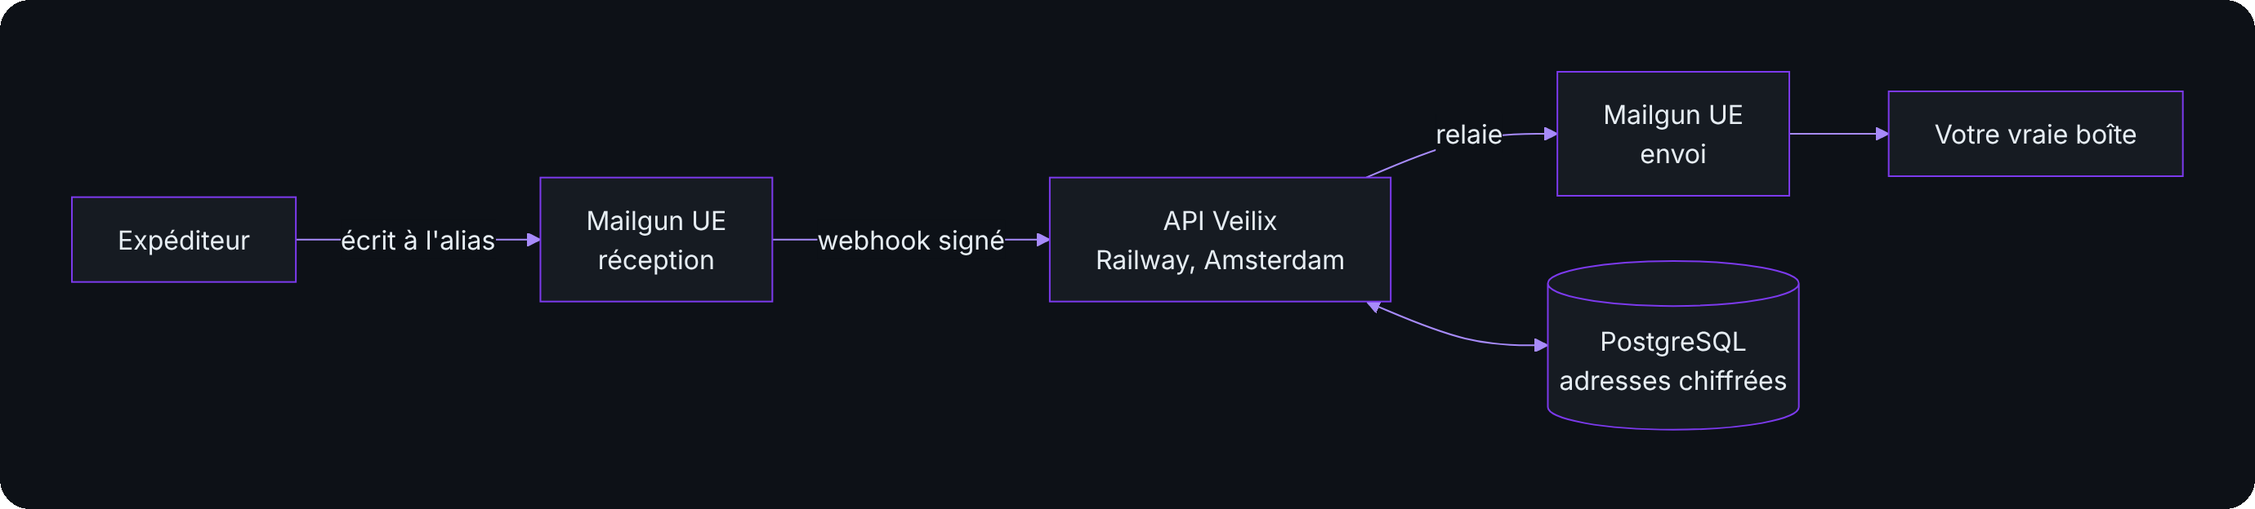
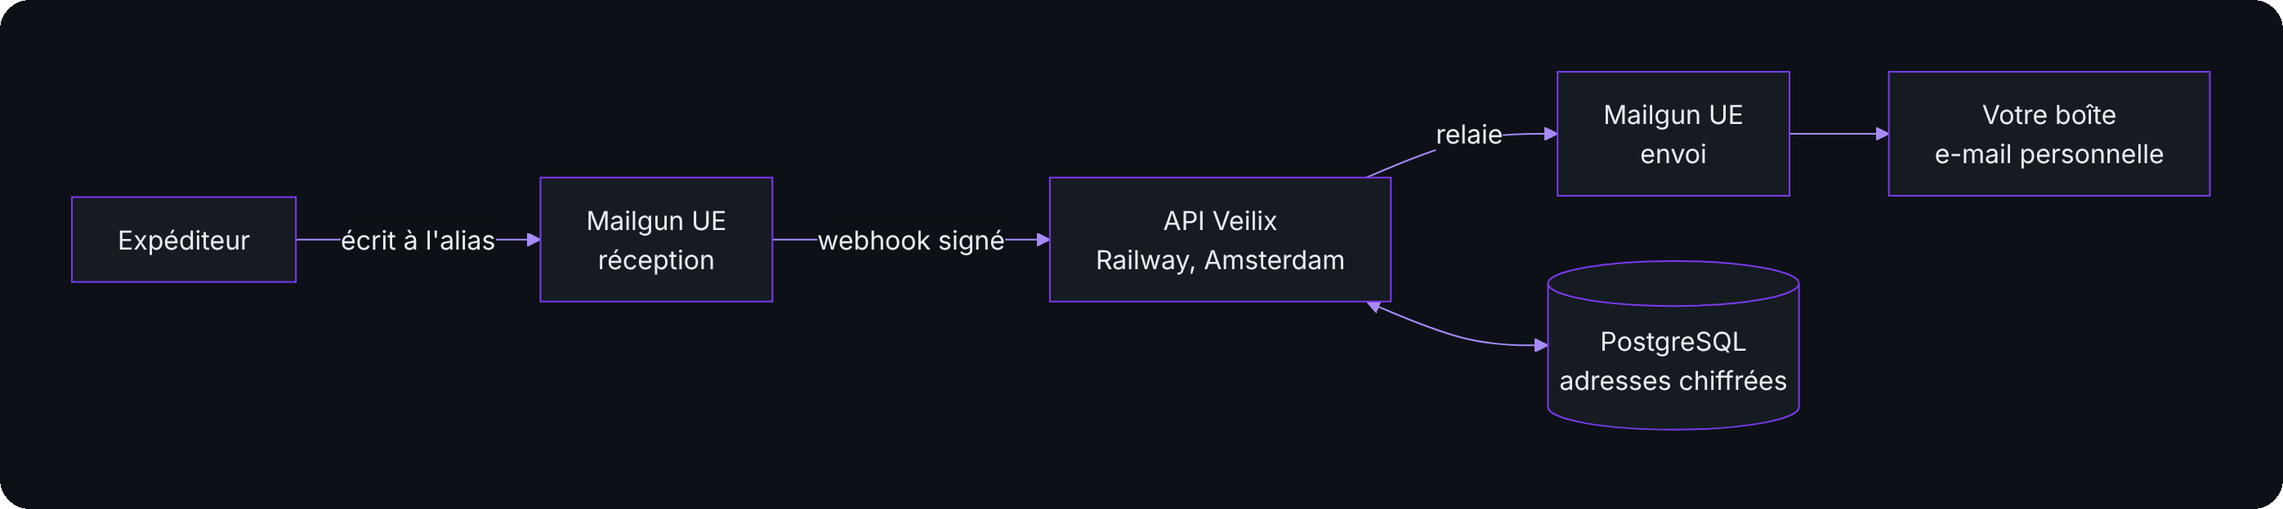
« Adresse e-mail personnelle » partout sur le site

diff --git a/veilix-frontend/lib/translations-pages.ts b/veilix-frontend/lib/translations-pages.ts
@@ -78,7 +78,7 @@ export const PT = {
         { title: "1. Responsable du traitement", content: "Le responsable du traitement est l'éditeur de Veilix, identifié dans les mentions légales. Pour toute question sur vos données : legal@veilix.fr." },
         { title: "2. Un service sans compte", content: "Veilix ne vous demande ni nom ni mot de passe. Votre clé et sa phrase de récupération de 12 mots sont générées dans votre navigateur et ne nous sont jamais transmises. Nos serveurs reçoivent seulement un identifiant dérivé de votre clé, qu'ils enregistrent sous forme d'empreinte SHA-256." },
         { title: "3. Données traitées et finalités", content: "Pour faire fonctionner le service : l'empreinte de votre clé, votre plan, vos crédits, vos alias et leurs étiquettes, la date de création de la clé et celle de sa dernière utilisation. Pour transférer vos e-mails : vos adresses de destination, chiffrées en AES-256-GCM avec une clé conservée hors de la base, accompagnées d'une empreinte HMAC-SHA256 qui permet de les retrouver sans les lire. Pour répondre depuis un alias : l'adresse de chaque correspondant à qui vous répondez, chiffrée de la même façon. Pour la bêta : votre adresse de contact, chiffrée, et vos réponses aux formulaires de retour, chiffrées. Pour protéger le service : des empreintes de vos adresses IP pour limiter les abus, des empreintes techniques des messages reçus pour éviter les doublons, et l'état de délivrabilité de chaque destination (rebonds et plaintes), enregistré sous forme d'empreinte." },
-        { title: "4. Le contenu de vos e-mails", content: "Les e-mails reçus sur vos alias transitent par notre prestataire d'envoi et par nos serveurs le temps de leur transfert vers votre adresse de destination. Veilix ne les lit pas, ne les analyse pas à des fins commerciales et ne conserve pas leur contenu. Lorsque vous répondez depuis un alias, votre adresse réelle est retirée du message avant son envoi." },
+        { title: "4. Le contenu de vos e-mails", content: "Les e-mails reçus sur vos alias transitent par notre prestataire d'envoi et par nos serveurs le temps de leur transfert vers votre adresse de destination. Veilix ne les lit pas, ne les analyse pas à des fins commerciales et ne conserve pas leur contenu. Lorsque vous répondez depuis un alias, votre adresse e-mail personnelle est retirée du message avant son envoi." },
         { title: "5. Bases légales", content: "L'exécution du service que vous demandez pour la gestion de vos alias, de vos transferts et de vos réponses. Votre consentement pour la participation à la bêta et l'envoi des e-mails qui l'accompagnent. Notre intérêt légitime pour la sécurité du service et la lutte contre les abus. Nos obligations légales pour la facturation, lorsque le paiement en ligne sera ouvert." },
         { title: "6. Prestataires et hébergement", content: "Railway héberge l'API et la base de données dans l'Union européenne, à Amsterdam. Vercel héberge le site, servi depuis Paris. Mailgun achemine les e-mails depuis sa région européenne. Stripe traitera les paiements à partir de l'ouverture du paiement en ligne : Veilix ne voit pas et ne conserve pas votre numéro de carte, seulement l'identifiant client Stripe et l'état de votre abonnement. Ces prestataires sont des sociétés américaines : un transfert de données hors de l'Union européenne reste possible, encadré par les garanties prévues par le RGPD, notamment les clauses contractuelles types de la Commission européenne. Railway et Vercel conservent dans leurs journaux techniques l'adresse IP, le navigateur et la page demandée de chaque visite, et Mailgun conserve des journaux d'acheminement (expéditeur, destinataire, date), pour des durées fixées par ces prestataires. Les journaux d'accès de notre propre serveur sont désactivés." },
         { title: "7. Durées de conservation", content: "Les données de votre clé, de vos alias et de vos destinations sont conservées tant que votre clé existe. Vous pouvez tout supprimer à tout moment depuis le tableau de bord, avec le bouton « Supprimer mon compte et mes données » : la suppression est immédiate et définitive. Les adresses de vos correspondants sont supprimées avec l'alias concerné. Les inscriptions à la bêta sont effacées à la fin de la phase de bêta concernée. Les empreintes d'adresses IP sont effacées sous 48 heures et les empreintes techniques des messages sous 3 jours." },
@@ -138,7 +138,7 @@ export const PT = {
         {
           category: 'Général',
           items: [
-            { q: "Qu'est-ce que Veilix ?", a: "Veilix est un service de protection d'identité numérique par alias email. Il vous permet de créer des adresses email jetables qui redirigent les messages vers votre vraie boîte." },
+            { q: "Qu'est-ce que Veilix ?", a: "Veilix est un service de protection d'identité numérique par alias email. Il vous permet de créer des adresses email jetables qui redirigent les messages vers votre boîte e-mail personnelle." },
             { q: 'Veilix est-il gratuit ?', a: "Veilix propose un essai de 14 jours, avec un moyen de paiement requis. Ensuite, le plan Pro (100 alias) coûte 4,99€/mois ou 44,90€/an, et le Pack de lancement (alias illimités, offre limitée à 100 exemplaires) 69€/an." },
             { q: "Comment fonctionne l'essai de 14 jours ?", a: "Vous enregistrez un moyen de paiement, rien n'est débité pendant 14 jours. À la fin de l'essai, l'abonnement démarre automatiquement, sauf si vous l'avez annulé avant." },
             { q: 'Veilix est-il open source ?', a: 'Oui, entièrement : le site et le backend sont open source sous licence AGPL-3.0 et publiquement auditables sur github.com/VeilixHQ/Veilix.' },
@@ -157,7 +157,7 @@ export const PT = {
           items: [
             { q: "Combien d'alias puis-je créer ?", a: '100 alias avec le plan Pro, illimités avec le Pack de lancement.' },
             { q: 'Mes emails sont-ils lus ou stockés ?', a: 'Non, jamais. Nous redirigeons le flux en temps réel.' },
-            { q: 'Puis-je répondre depuis un alias ?', a: 'Oui, la réponse est envoyée depuis l\'alias, sans révéler votre vraie adresse.' },
+            { q: 'Puis-je répondre depuis un alias ?', a: 'Oui, la réponse est envoyée depuis l\'alias, sans révéler votre adresse e-mail personnelle.' },
             { q: 'Que se passe-t-il si je désactive un alias ?', a: 'Les emails sont ignorés. Réactivable à tout moment.' },
             { q: 'Puis-je choisir mon alias ?', a: "Sur alias.veilix.fr, chaque adresse est générée aléatoirement pour garantir son unicité et votre anonymat. Choisir le nom de vos adresses sera possible avec les domaines personnalisés du Pack de lancement, bientôt disponibles." },
           ],
@@ -307,7 +307,7 @@ export const PT = {
         { title: "1. Data controller", content: "The data controller is the publisher of Veilix, identified in the legal notice. For any question about your data: legal@veilix.fr." },
         { title: "2. A service without accounts", content: "Veilix never asks for your name or a password. Your key and its 12-word recovery phrase are generated in your browser and are never sent to us. Our servers only receive an identifier derived from your key, which they store as a SHA-256 hash." },
         { title: "3. Data processed and purposes", content: "To run the service: the hash of your key, your plan, your credits, your aliases and their labels, the date your key was created and last used. To forward your emails: your destination addresses, encrypted with AES-256-GCM using a key kept outside the database, with an HMAC-SHA256 fingerprint that lets us find them without reading them. To reply from an alias: the address of each correspondent you reply to, encrypted the same way. For the beta: your contact address, encrypted, and your answers to feedback forms, encrypted. To protect the service: hashes of your IP addresses to limit abuse, technical fingerprints of incoming messages to avoid duplicates, and the deliverability state of each destination (bounces and complaints), stored as a fingerprint." },
-        { title: "4. The content of your emails", content: "Emails received on your aliases pass through our sending provider and our servers only while they are forwarded to your destination address. Veilix does not read them, does not analyze them for commercial purposes and does not keep their content. When you reply from an alias, your real address is removed from the message before it is sent." },
+        { title: "4. The content of your emails", content: "Emails received on your aliases pass through our sending provider and our servers only while they are forwarded to your destination address. Veilix does not read them, does not analyze them for commercial purposes and does not keep their content. When you reply from an alias, your personal email address is removed from the message before it is sent." },
         { title: "5. Legal bases", content: "Performance of the service you request, to manage your aliases, forwarding and replies. Your consent, for taking part in the beta and receiving the related emails. Our legitimate interest in securing the service and fighting abuse. Our legal obligations for invoicing, once online payment opens." },
         { title: "6. Providers and hosting", content: "Railway hosts the API and database in the European Union, in Amsterdam. Vercel hosts the website, served from Paris. Mailgun routes emails from its European region. Stripe will process payments once online payment opens: Veilix never sees or stores your card number, only the Stripe customer identifier and your subscription status. These providers are US companies: data may be transferred outside the European Union, under the safeguards provided by the GDPR, including the European Commission's standard contractual clauses. Railway and Vercel keep the IP address, browser and requested page of each visit in their technical logs, and Mailgun keeps routing logs (sender, recipient, date), for periods set by these providers. Our own server access logs are disabled." },
         { title: "7. Retention", content: "Data about your key, aliases and destinations is kept as long as your key exists. You can delete everything at any time from the dashboard with the \"Delete my account and data\" button: deletion is immediate and permanent. Your correspondents' addresses are deleted with the related alias. Beta signups are erased when the beta phase ends. IP address hashes are erased within 48 hours and message fingerprints within 3 days." },
@@ -367,7 +367,7 @@ export const PT = {
         {
           category: 'General',
           items: [
-            { q: 'What is Veilix?', a: 'Veilix is a digital identity protection service using email aliases. It lets you create disposable email addresses that forward to your real inbox.' },
+            { q: 'What is Veilix?', a: 'Veilix is a digital identity protection service using email aliases. It lets you create disposable email addresses that forward to your personal inbox.' },
             { q: 'Is Veilix free?', a: 'Veilix offers a 14-day trial, payment method required. After that, the Pro plan (100 aliases) costs €4.99/month or €44.90/year, and the Launch pack (unlimited aliases, limited to 100 copies) €69/year.' },
             { q: 'How does the 14-day trial work?', a: 'You add a payment method, nothing is charged for 14 days. When the trial ends, your subscription starts automatically unless you cancelled before.' },
             { q: 'Is Veilix open source?', a: 'Yes, entirely: the website and the backend are open source under the AGPL-3.0 license and publicly auditable at github.com/VeilixHQ/Veilix.' },
@@ -386,7 +386,7 @@ export const PT = {
           items: [
             { q: 'How many aliases can I create?', a: '100 with the Pro plan, unlimited with the Launch pack.' },
             { q: 'Are my emails read or stored?', a: 'No, never. We redirect the flow in real time.' },
-            { q: 'Can I reply from an alias?', a: 'Yes, your reply is sent from the alias, without revealing your real address.' },
+            { q: 'Can I reply from an alias?', a: 'Yes, your reply is sent from the alias, without revealing your personal email address.' },
             { q: 'What happens if I disable an alias?', a: 'Emails are ignored. Reactivatable anytime.' },
             { q: 'Can I choose my alias?', a: 'On alias.veilix.fr, each address is randomly generated to guarantee uniqueness and anonymity. Choosing your own address names will be possible with custom domains in the Launch pack, coming soon.' },
           ],

diff --git a/veilix-frontend/lib/translations.ts b/veilix-frontend/lib/translations.ts
@@ -145,7 +145,7 @@ export const T = {
         declineOfferBtn: 'Non merci, je souhaite quand même résilier',
         unusedTitle: 'Votre protection travaille pourtant en silence',
         unusedDesc1: 'Vous avez actuellement ',
-        unusedDesc2: " sur votre tableau de bord. Même lorsque vous ne créez pas de nouveaux alias, Veilix filtre vos e-mails en arrière-plan et empêche votre vraie adresse d'être revendue.",
+        unusedDesc2: " sur votre tableau de bord. Même lorsque vous ne créez pas de nouveaux alias, Veilix filtre vos e-mails en arrière-plan et empêche votre adresse e-mail personnelle d'être revendue.",
         keepProtectionBtn: 'Conserver ma protection active',
         continueCancelBtn: 'Continuer vers la résiliation',
         feedbackTitle: 'Construisons Veilix ensemble',
@@ -162,9 +162,9 @@ export const T = {
       },
     },
     h1a: 'Des alias email',
-    h1b: 'pour protéger votre vraie adresse.',
+    h1b: 'pour protéger votre adresse e-mail personnelle.',
     sub1: 'Créez vos alias instantanément.',
-    sub2: 'Votre vraie adresse reste privée pour toujours.',
+    sub2: 'Votre adresse e-mail personnelle reste privée pour toujours.',
     cta1: 'Essayer gratuitement 14 jours',
     cta2: 'Découvrir le fonctionnement',
     demoLabel: 'Alias actifs',
@@ -222,7 +222,7 @@ export const T = {
       { title: 'Blocage instantané', desc: 'Un spammeur vous harcèle ?\nCoupez les accès en un clic.', tag: '1-Click' },
       { title: 'Réponse anonyme', desc: 'Répondez directement via vos alias\ntout en gardant votre adresse privée.', tag: '100% Anonyme' },
       { title: 'Pièces jointes incluses', desc: 'Recevez et envoyez vos PDF,\ndocuments et images en toute sécurité.', tag: 'PDF, Docs, Img' },
-      { title: 'Adresse 100% privée', desc: 'Votre vraie adresse reste sous clé.\nProtection totale en arrière-plan.', tag: 'Privacy First' },
+      { title: 'Adresse 100% privée', desc: 'Votre adresse e-mail personnelle reste sous clé.\nProtection totale en arrière-plan.', tag: 'Privacy First' },
       { title: 'Labels & Organisation', desc: 'Shopping, gaming ou travail :\nchaque alias reste à sa place.', tag: 'Sur-mesure' },
     ],
     whyKicker: 'Pourquoi Choisir Veilix ?',
@@ -230,7 +230,7 @@ export const T = {
     whySub: 'Vous connaissez la boîte saturée de gauche. Veilix vous offre la boîte épurée de droite.',
     gmailBefore: 'Sans Veilix',
     gmailAfter: 'Avec Veilix',
-    gmailBeforeDesc: 'Votre vraie adresse exposée partout',
+    gmailBeforeDesc: 'Votre adresse e-mail personnelle exposée partout',
     gmailAfterDesc: 'Seuls les emails importants arrivent',
     gmailSpam: 'emails non lus',
     gmailNow: 'maintenant',
@@ -249,7 +249,7 @@ export const T = {
     faqKicker: 'FAQ',
     faqTitle: 'Questions fréquentes.',
     faqs: [
-      { q: "Qu'est-ce qu'un alias email ?", a: "Un alias email est une adresse intermédiaire qui protège votre véritable adresse. Les messages envoyés à votre alias sont transférés vers votre boîte de réception sans que votre adresse réelle ne soit dévoilée." },
+      { q: "Qu'est-ce qu'un alias email ?", a: "Un alias email est une adresse intermédiaire qui protège votre adresse e-mail personnelle. Les messages envoyés à votre alias sont transférés vers votre boîte de réception sans que votre adresse e-mail personnelle ne soit dévoilée." },
       { q: 'Veilix lit-il ou stocke-t-il mes emails ?', a: "Non. Veilix ne lit pas vos emails et ne stocke pas leur contenu. Le service agit uniquement comme un relais chiffré en temps réel." },
       { q: 'Comment fonctionne Veilix sans compte ?', a: "Veilix ne nécessite aucune inscription classique. Aucun nom ni mot de passe n'est demandé. Votre accès repose sur une clé cryptographique générée localement dans votre navigateur." },
       { q: 'Quelles données Veilix possède-t-il sur moi ?', a: "Aucune donnée personnelle permettant de vous identifier. Pas de profil utilisateur, pas de suivi publicitaire ni de revente de données." },
@@ -450,7 +450,7 @@ export const T = {
         declineOfferBtn: 'No thanks, I still want to cancel',
         unusedTitle: 'Your protection still works silently',
         unusedDesc1: 'You currently have ',
-        unusedDesc2: ' on your dashboard. Even when you do not create new aliases, Veilix filters your emails in the background and prevents your real address from being resold.',
+        unusedDesc2: ' on your dashboard. Even when you do not create new aliases, Veilix filters your emails in the background and prevents your personal email address from being resold.',
         keepProtectionBtn: 'Keep my protection active',
         continueCancelBtn: 'Continue to cancellation',
         feedbackTitle: "Let's build Veilix together",
@@ -467,9 +467,9 @@ export const T = {
       },
     },
     h1a: 'Email aliases',
-    h1b: 'to protect your real address.',
+    h1b: 'to protect your personal email address.',
     sub1: 'Create aliases instantly.',
-    sub2: 'Your real address stays private for good.',
+    sub2: 'Your personal email address stays private for good.',
     cta1: 'Start 14-day free trial',
     cta2: 'How it works',
     demoLabel: 'Active aliases',
@@ -493,7 +493,7 @@ export const T = {
     howTitle: 'Simple by design.',
     howSteps: [
       { n: '1', title: 'Generate a key', desc: 'No email or password required.\nA unique cryptographic key generated locally.' },
-      { n: '2', title: 'Create aliases', desc: 'Generate your aliases in one click.\nKeep your real address private and send attachments (PDFs, docs...).' },
+      { n: '2', title: 'Create aliases', desc: 'Generate your aliases in one click.\nKeep your personal email address private and send attachments (PDFs, docs...).' },
       { n: '3', title: 'Block in one click', desc: 'Reply to incoming emails directly from your alias while remaining 100% anonymous.\nSpam? Block with one click.' },
     ],
     howVisualTitle: 'Email aliases',
@@ -513,9 +513,9 @@ export const T = {
     features: [
       { title: 'Aliases in one click', desc: 'Instant generation.\nReady to use with zero configuration.', tag: 'Instant' },
       { title: 'Instant blocking', desc: 'Spammer harassing you?\nCut access in one click.', tag: '1-Click' },
-      { title: 'Anonymous reply', desc: 'Reply directly through your aliases\nwhile keeping your real address private.', tag: '100% Anonymous' },
+      { title: 'Anonymous reply', desc: 'Reply directly through your aliases\nwhile keeping your personal email address private.', tag: '100% Anonymous' },
       { title: 'Attachments supported', desc: 'Receive and send your PDFs,\ndocuments, and images securely.', tag: 'PDF, Docs, Img' },
-      { title: '100% private address', desc: 'Your real email stays locked.\nTotal background protection.', tag: 'Privacy First' },
+      { title: '100% private address', desc: 'Your personal email address stays locked.\nTotal background protection.', tag: 'Privacy First' },
       { title: 'Labels & Organization', desc: 'Shopping, gaming, or work:\nevery alias in its place.', tag: 'Custom' },
     ],
     whyKicker: 'Why Choose Veilix?',
@@ -523,7 +523,7 @@ export const T = {
     whySub: 'You know the crowded inbox on the left. Veilix gives you the clean one on the right.',
     gmailBefore: 'Without Veilix',
     gmailAfter: 'With Veilix',
-    gmailBeforeDesc: 'Your real address exposed everywhere',
+    gmailBeforeDesc: 'Your personal email address exposed everywhere',
     gmailAfterDesc: 'Only important emails get through',
     gmailSpam: 'unread emails',
     gmailNow: 'now',
@@ -542,7 +542,7 @@ export const T = {
     faqKicker: 'FAQ',
     faqTitle: 'Frequently asked questions.',
     faqs: [
-      { q: 'What is an email alias?', a: 'An alias is an intermediate email address that forwards emails to your real inbox. Your real address is never shared.' },
+      { q: 'What is an email alias?', a: 'An alias is an intermediate email address that forwards emails to your personal inbox. Your personal email address is never shared.' },
       { q: 'Are my emails stored by Veilix?', a: 'No. Veilix does not read or store your emails. We simply redirect the flow in real time.' },
       { q: 'How does the no-account system work?', a: 'A cryptographic key is generated locally in your browser. It completely replaces email and password.' },
       { q: 'What data does Veilix hold about me?', a: 'No personal data allowing you to be identified. No user profile, no advertising tracking, and no data resale.' },

diff --git a/veilix-frontend/app/conditions-utilisation/page.tsx b/veilix-frontend/app/conditions-utilisation/page.tsx
@@ -35,7 +35,7 @@ const CONTENT: Record<Lang, {
     sections: {
       cgu: [
         { title: '1. Objet', content: "Les présentes conditions encadrent l'utilisation de Veilix, service d'alias e-mail édité par la personne identifiée dans les mentions légales. Utiliser Veilix vaut acceptation de ces conditions." },
-        { title: '2. Le service', content: "Veilix permet de créer des adresses e-mail de substitution (alias) qui transfèrent les messages reçus vers une adresse de destination que vous avez confirmée, et de répondre depuis ces alias sans révéler votre adresse réelle. Le service fonctionne sans compte : l'accès repose sur une clé générée dans votre navigateur." },
+        { title: '2. Le service', content: "Veilix permet de créer des adresses e-mail de substitution (alias) qui transfèrent les messages reçus vers une adresse de destination que vous avez confirmée, et de répondre depuis ces alias sans révéler votre adresse e-mail personnelle. Le service fonctionne sans compte : l'accès repose sur une clé générée dans votre navigateur." },
         { title: '3. Votre clé', content: "Votre phrase de récupération de 12 mots est le seul moyen de retrouver votre clé. Veilix ne la connaît pas et ne peut pas la retrouver à votre place : si vous la perdez, l'accès à vos alias est définitivement perdu. Gardez-la en lieu sûr et ne la communiquez à personne." },
         { title: '4. Utilisation acceptable', content: "Il est interdit d'utiliser Veilix pour envoyer du spam, de l'hameçonnage ou des logiciels malveillants, pour harceler, usurper une identité, contourner une interdiction ou diffuser un contenu illégal. Il est également interdit de tenter de perturber le service, de contourner ses limites ou d'accéder aux données d'autrui." },
         { title: '5. Limites et suspension', content: "Des limites d'envoi et de création d'alias protègent le service et sa réputation auprès des fournisseurs de messagerie. En cas de manquement aux présentes conditions, de rebonds ou de plaintes répétés, Veilix peut désactiver un alias ou suspendre une clé, si possible après avertissement." },
@@ -94,7 +94,7 @@ const CONTENT: Record<Lang, {
     sections: {
       cgu: [
         { title: '1. Purpose', content: 'These terms govern the use of Veilix, an email alias service published by the person identified in the legal notice. Using Veilix means you accept these terms.' },
-        { title: '2. The service', content: 'Veilix lets you create substitute email addresses (aliases) that forward incoming messages to a destination address you have confirmed, and reply from these aliases without revealing your real address. The service works without an account: access relies on a key generated in your browser.' },
+        { title: '2. The service', content: 'Veilix lets you create substitute email addresses (aliases) that forward incoming messages to a destination address you have confirmed, and reply from these aliases without revealing your personal email address. The service works without an account: access relies on a key generated in your browser.' },
         { title: '3. Your key', content: 'Your 12-word recovery phrase is the only way to recover your key. Veilix does not know it and cannot recover it for you: if you lose it, access to your aliases is lost for good. Keep it safe and never share it.' },
         { title: '4. Acceptable use', content: 'You may not use Veilix to send spam, phishing or malware, to harass, impersonate, evade a ban or spread illegal content. You may not try to disrupt the service, bypass its limits or access other people\'s data.' },
         { title: '5. Limits and suspension', content: 'Sending and alias creation limits protect the service and its reputation with email providers. If these terms are breached, or after repeated bounces or complaints, Veilix may disable an alias or suspend a key, with prior warning where possible.' },

diff --git a/veilix-frontend/components/landing/SocialProof.tsx b/veilix-frontend/components/landing/SocialProof.tsx
@@ -15,7 +15,7 @@ const content = {
       "Vous vous inscrivez quelque part. Un site, une app, une newsletter.<br />On vous demande votre email, alors vous le donnez, c'est le prix à payer pour accéder à ce que vous voulez.",
       "Sauf que ce prix, on ne vous le montre jamais vraiment. Votre adresse finit revendue à des annonceurs, ajoutée à des listes de diffusion, exposée lors de la prochaine fuite de données.<br />Votre boîte mail devient un endroit que vous n'avez plus envie d'ouvrir.",
       "On a construit Veilix parce qu'on trouvait ça absurde.<br />Pourquoi devrait-on choisir entre utiliser un service et protéger son identité ?",
-      "Avec Veilix, vous donnez un alias à la place de votre vraie adresse. Aucun compte à créer, aucun mot de passe à retenir. Juste une clé générée dans votre navigateur, que vous seul possédez.",
+      "Avec Veilix, vous donnez un alias à la place de votre adresse e-mail personnelle. Aucun compte à créer, aucun mot de passe à retenir. Juste une clé générée dans votre navigateur, que vous seul possédez.",
     ],
     pillars: ['No Account', 'No Logs', 'No Tracking', 'Open Source'],
     alt: 'Utilisation de Veilix sur téléphone',
@@ -27,7 +27,7 @@ const content = {
       "You sign up somewhere. A website, an app, a newsletter.<br />They ask for your email, so you give it, it's the price to pay for what you want.",
       "Except that price is never really shown to you. Your address ends up resold to advertisers, added to mailing lists, exposed in the next data breach.<br />Your inbox becomes a place you no longer want to open.",
       "We built Veilix because we found that absurd.<br />Why should you have to choose between using a service and protecting your identity?",
-      "With Veilix, you give an alias instead of your real address. No account to create, no password to remember. Just a key generated in your browser, that only you own.",
+      "With Veilix, you give an alias instead of your personal email address. No account to create, no password to remember. Just a key generated in your browser, that only you own.",
     ],
     pillars: ['No Account', 'No Logs', 'No Tracking', 'Open Source'],
     alt: 'Using Veilix on phone',

diff --git a/veilix-frontend/app/layout.tsx b/veilix-frontend/app/layout.tsx
@@ -3,12 +3,12 @@ import { connection } from 'next/server'
 import './globals.css'
 
 const SITE_URL = 'https://veilix.fr'
-const DESCRIPTION = "Créez un alias email pour chaque site et gardez votre vraie adresse privée. Sans e-mail ni mot de passe, sans journal d'activité, open source et hébergé en Europe."
+const DESCRIPTION = "Créez un alias email pour chaque site et gardez votre adresse e-mail personnelle privée. Sans e-mail ni mot de passe, sans journal d'activité, open source et hébergé en Europe."
 
 export const metadata: Metadata = {
   metadataBase: new URL(SITE_URL),
   title: {
-    default: 'Veilix : alias email pour protéger votre vraie adresse',
+    default: 'Veilix : alias email pour protéger votre adresse e-mail personnelle',
     template: '%s | Veilix',
   },
   description: DESCRIPTION,
@@ -20,12 +20,12 @@ export const metadata: Metadata = {
     url: SITE_URL,
     siteName: 'Veilix',
     locale: 'fr_FR',
-    title: 'Veilix : alias email pour protéger votre vraie adresse',
+    title: 'Veilix : alias email pour protéger votre adresse e-mail personnelle',
     description: DESCRIPTION,
   },
   twitter: {
     card: 'summary_large_image',
-    title: 'Veilix : alias email pour protéger votre vraie adresse',
+    title: 'Veilix : alias email pour protéger votre adresse e-mail personnelle',
     description: DESCRIPTION,
   },
   robots: { index: true, follow: true, googleBot: { index: true, follow: true, 'max-image-preview': 'large', 'max-snippet': -1 } },

diff --git a/veilix-frontend/app/settings/page.tsx b/veilix-frontend/app/settings/page.tsx
@@ -362,7 +362,7 @@ export default function SettingsPage() {
                       Votre protection travaille pourtant en silence
                     </h3>
                     <p style={{ fontSize: 13, color: 'var(--c-94a3b8)', lineHeight: 1.6, marginBottom: 16 }}>
-                      Vous avez actuellement <strong style={{ color: 'var(--c-8b5cf6)' }}>{activeAliasesCount} alias actif{activeAliasesCount > 1 ? 's' : ''}</strong> sur votre tableau de bord. Même lorsque vous ne créez pas de nouveaux alias, Veilix filtre vos e-mails en arrière-plan et empêche votre vraie adresse d être revendue.
+                      Vous avez actuellement <strong style={{ color: 'var(--c-8b5cf6)' }}>{activeAliasesCount} alias actif{activeAliasesCount > 1 ? 's' : ''}</strong> sur votre tableau de bord. Même lorsque vous ne créez pas de nouveaux alias, Veilix filtre vos e-mails en arrière-plan et empêche votre adresse e-mail personnelle d être revendue.
                     </p>
                     <div style={{ display: 'flex', flexDirection: 'column', gap: 10 }}>
                       <Button variant="primary" size="md" onClick={() => setShowCancelModal(false)} style={{ background: 'var(--c-8b5cf6)', borderColor: 'var(--c-8b5cf6)' }}>

diff --git a/veilix-frontend/components/landing/Hero.tsx b/veilix-frontend/components/landing/Hero.tsx
@@ -65,7 +65,7 @@ export function Hero({ t }: { t: Translations }) {
       <Particles />
       <div style={{ position: 'absolute', top: '-80px', left: '50%', transform: 'translateX(-50%)', width: 900, height: 600, background: 'radial-gradient(ellipse at 50% 0%, rgba(124,58,237,0.13) 0%, transparent 65%)', pointerEvents: 'none' }} />
 
-      <h1 className="hero-h1" style={{ position: 'relative', zIndex: 1, maxWidth: 640, animation: 'fadeUp 0.6s ease 0.1s both' }}>
+      <h1 className="hero-h1" style={{ position: 'relative', zIndex: 1, maxWidth: 900, animation: 'fadeUp 0.6s ease 0.1s both' }}>
         <span style={{ display: 'block', fontSize: 'clamp(30px, 4.5vw, 56px)', fontWeight: 900, lineHeight: 1.06, letterSpacing: '-2px', marginBottom: 4 }}>{t.h1a}</span>
         <span style={{ display: 'block', fontSize: 'clamp(22px, 3.2vw, 40px)', fontWeight: 800, lineHeight: 1.1, letterSpacing: '-1.5px', color: 'var(--c-a78bfa)' }}>{t.h1b}</span>
       </h1>

diff --git a/README.md b/README.md
@@ -29,7 +29,7 @@
 ## Présentation
 
 Veilix vous donne une adresse différente pour chaque site où vous vous inscrivez, par exemple `x7k2m9pl4q@alias.veilix.fr`.
-Les e-mails reçus sur cet alias sont relayés vers votre vraie boîte, qui n'est jamais communiquée au site. Si un alias reçoit du spam ou fuite, vous le désactivez : votre vraie adresse reste intacte.
+Les e-mails reçus sur cet alias sont relayés vers votre boîte e-mail personnelle, qui n'est jamais communiquée au site. Si un alias reçoit du spam ou fuite, vous le désactivez : votre adresse e-mail personnelle reste intacte.
 
 > Veilix est actuellement en **bêta privée**.
 
@@ -67,7 +67,7 @@ Les e-mails reçus sur cet alias sont relayés vers votre vraie boîte, qui n'es
 
 ### Parcours d'un e-mail
 
-<img src=".github/architecture/parcours-email-sombre.png" alt="Parcours d'un e-mail : expéditeur, Mailgun réception, API Veilix, Mailgun envoi, votre vraie boîte" width="100%">
+<img src=".github/architecture/parcours-email-sombre.png" alt="Parcours d'un e-mail : expéditeur, Mailgun réception, API Veilix, Mailgun envoi, votre boîte e-mail personnelle" width="100%">
 
 1. Un e-mail arrive sur `…@alias.veilix.fr`. Mailgun le transmet à l'API (`POST /email/inbound`) avec une signature vérifiée.
 2. L'API retrouve l'alias, applique les blocages, les quotas et la détection de fuite, chiffre en PGP si demandé, puis renvoie l'e-mail vers votre boîte.
